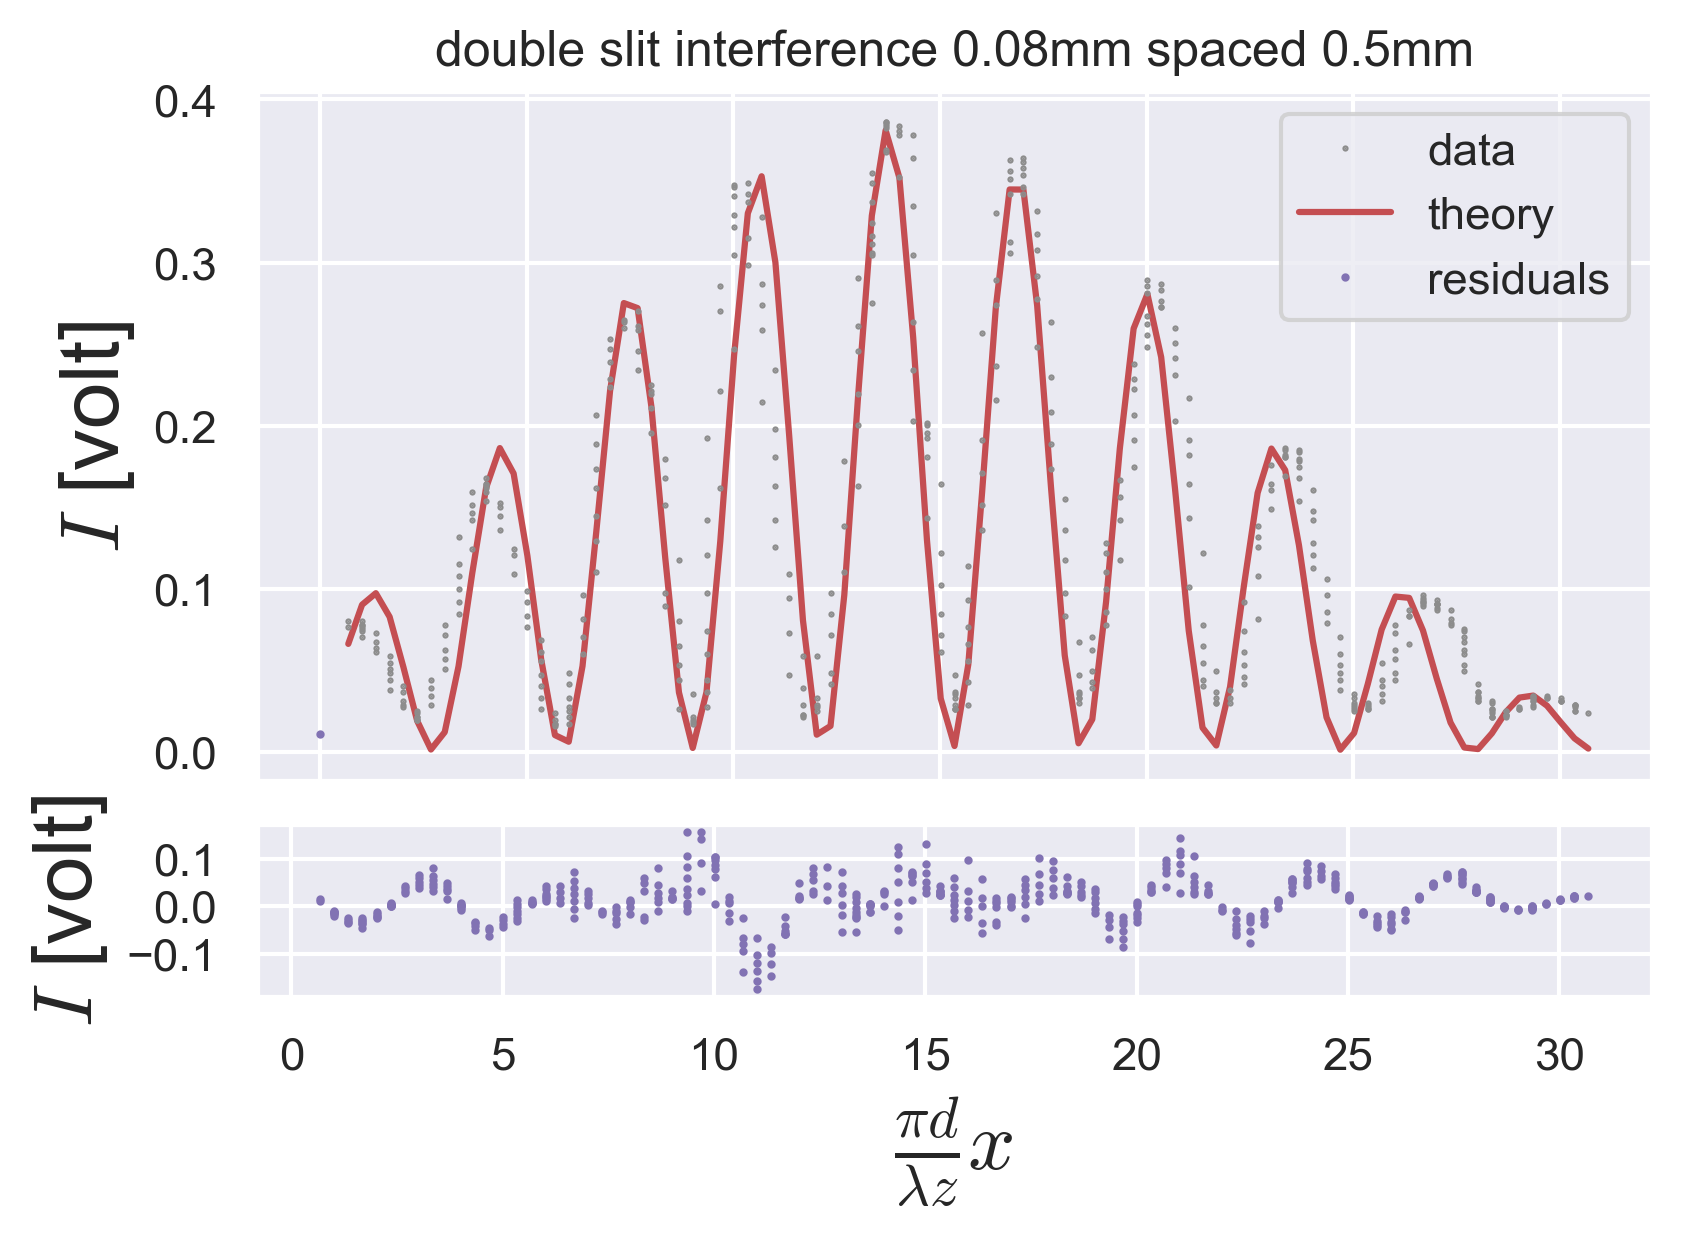
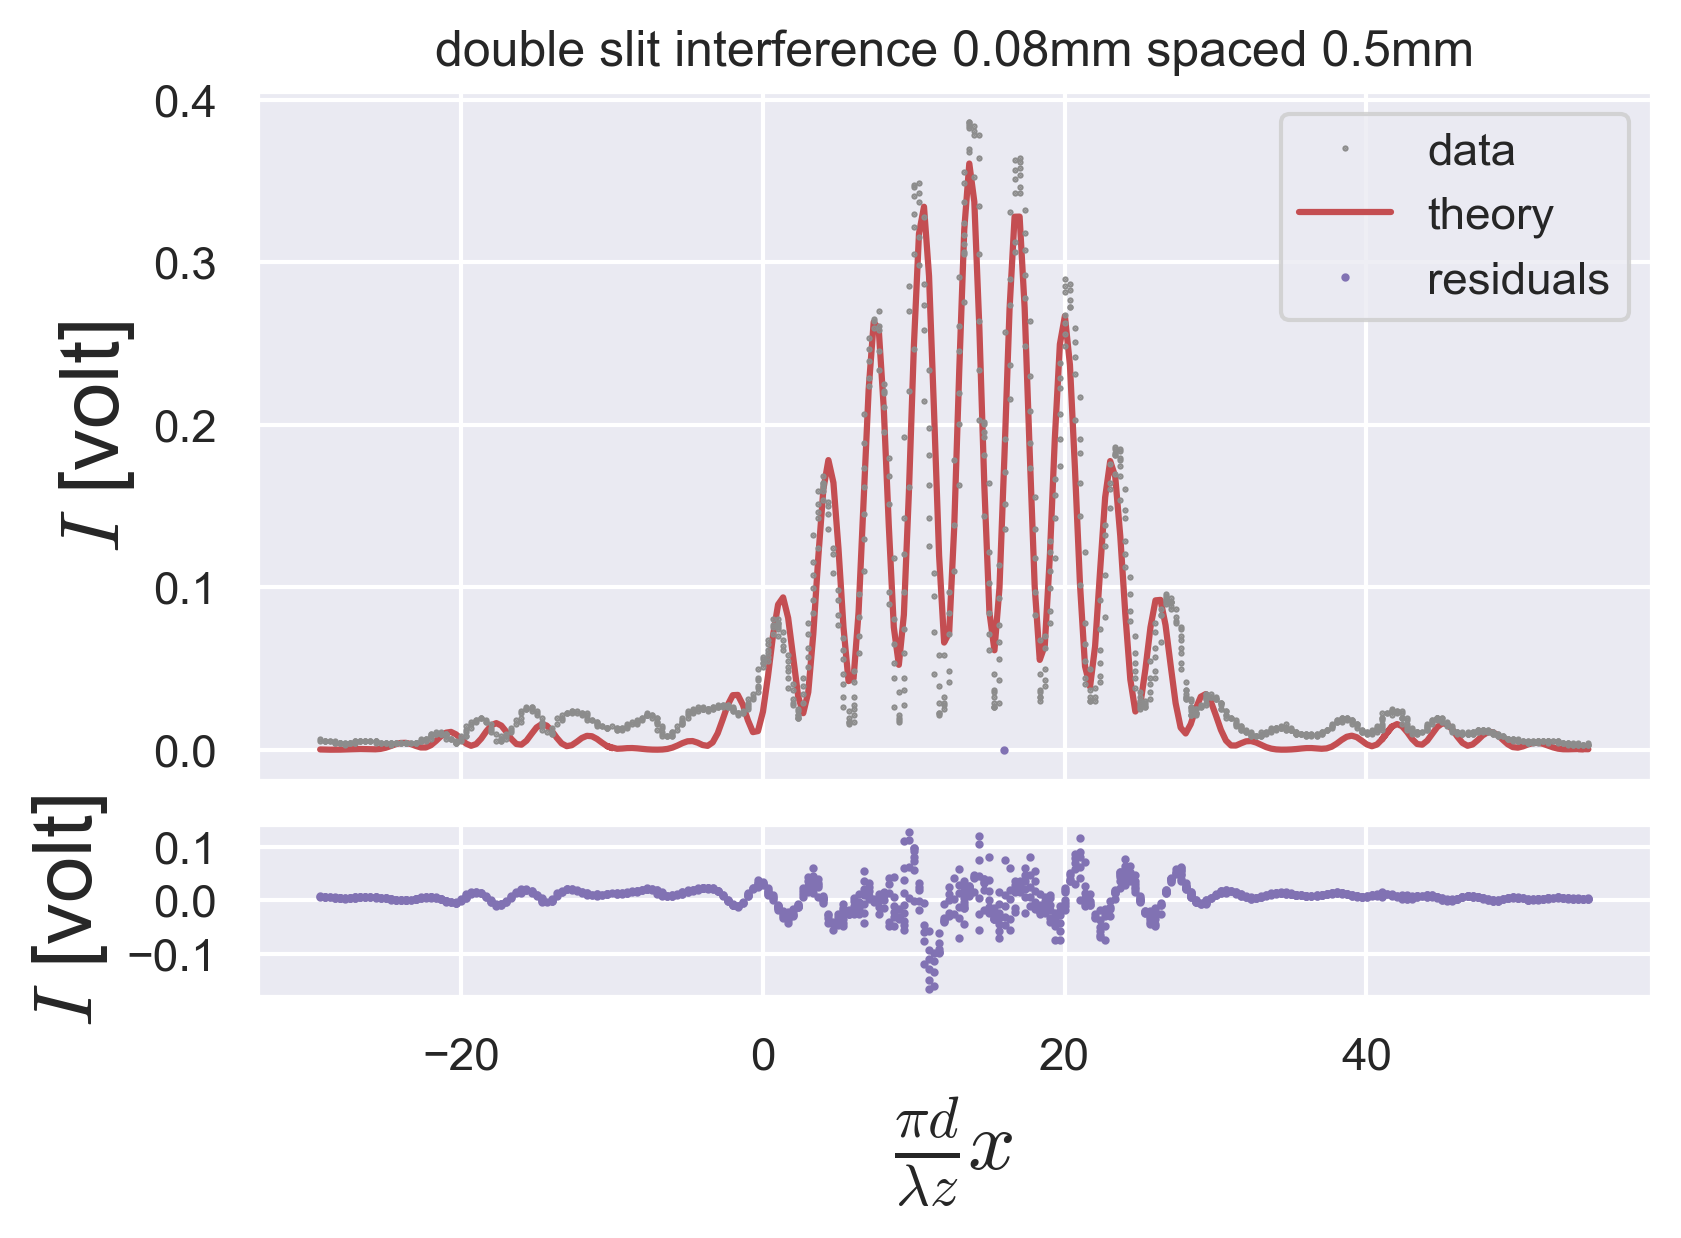
.

diff --git a/src/sections/results.tex b/src/sections/results.tex
@@ -1,18 +1,31 @@
 \section{Results}
-In the following section per convention $\lambda$ is the wavelength $d$ is the with of the slit and $z$ is the distance from the screen.\\
+In the following section per convention $\lambda$ is the wavelength $d$ is the width of the slit and $z$ is the distance from the screen.\\
 As can be seen in figure \ref{fig:single slit interference with 0.04mm width} the theory for a single slit fits the data well however there are
 secondary effects easily observable in the tails of the data that per our understanding are partially caused by the non-linearity of the
 photomultiplier and photoelectric sensor, such effects were not taken into account when formulating our theory
 However the adjustment can be easily accomplished.
 \input{figures/single slit interference with 0.04mm width.tex}
 \input{figures/other single slit figures.tex}
-\input{figures/0.04w0.25s.tex}
-\input{figures/0.08w0.25s.tex}
+\input{figures/0.04w0.025s memory.tex}
+Two more evidence that the difference between model and measurement can be explained be our measuring tools is shown in Figure {\ref{fig:0.04w0.25s memory}}.
+The first being the fact that although we expect the intensity to approximately equal zero at some point along the x-axis, the local minima seem to increase in value closer to $x=0$.
+This can be explained by the "iris effect" and the sensor's mechanism, that assign the sum of intensities at some neighborhood of a certain point to that point, specifically for the iris that neighborhood was estimated to be its' width.
+The second effect we see is an offset between theory and experiment that is, especially around the tails, one-sided.
+That tendency towards a certain side is duo to the fact that we scanned in a certain direction and the photoelectric sensor's measurement at a certain point is affected by measurements made a short time before that.
+When taking into account the iris effect we saw an improvement in the fit.
+According to the theory we used, the intensity for double slit patterns can be approximated as:\\
+$I(x)=\frac{kd^2\cos^2(\frac{kLx}{2z})sinc^2(\frac{dkx}{2z})}{z\pi}$\\
+As seen in Figure 6, when increasing the width of each slit we see that the $sinc$ function is narrower, and for greater spaces between slits we see the increase in the $cos$ function's frequency as expected.
+What's not predicted by our theory is the decrease in maximum amplitude which shouldn't change when altering the spacing,
+that can be explained by the fact we centered the maximum amplitude of the laser between slits for symmetry thus creating a decrease in amplitude of the incoming plane wave.
+\input{figures/other doubles.tex}
+\input{figures/10 slits per mm.tex}
+\newpage
 In the case of the periodic diffraction grating "10 lines per mm" the secondary effects are more pronounced especially
 the photoelectric sensor's "memory" (The photoelectric sensor has a relaxation period in which to voltage diminishes
 therefore after exposure instead of an immediate cut off a slope can be seen as the voltage is recorded with the relation
 to the angle which continues to change during said period giving us higher peaks and wider slopes near those peaks)\\
-\input{figures/10 slits per mm.tex}
+\\
 Finally To justify the title of the paper we should look at the interference pattern of the helix (Which bears some resemblance the shape off DNA)
 according to equation (\ref{eqn:farfield}) and the specified approximations the interference pattern can be calculated using
 the 2 dimensional fourier transform of the shape of the slit, Taking the inverse fourier transform of the pattern should result

diff --git a/src/sections/theoretical background.tex b/src/sections/theoretical background.tex
@@ -19,13 +19,14 @@ $\psi\rightarrow\hat{\psi}=\frac{1}{\sqrt{2\pi}^3}e^{-i\omega_0 t}\underbrace{\i
 b(\vec{k})e^{i\left( k_x x+k_y y+\sqrt{k_0^2 -k_x^2 -k_y^2} z \right)}dk_x dk_y}_{U(x,y,z)}$\\
 $\Rightarrow U(x,y,0)=U_o(x,y,0^-)T(x,y)=\frac{1}{\sqrt{2\pi}^3} \iint \limits_{-\infty}^{\quad \infty}b(k_x,k_y)e^{ik_x x+k_y y}=
 \frac{\mathcal{FT}_{2D}^{-1}\left[ b(k_x,k_y) \right]}{\sqrt{2\pi}}\Rightarrow b(k_x,k_y)=\sqrt{2\pi} \mathcal{FT}_{2D}\left[ U(x,y,0) \right]$
-summarizing we have $\psi(\vec{r},t)=\left( \frac{1}{2\pi} \right) \iint\limits_{-\infty}^{\quad \infty}\mathcal{FT}_{2D}\left[ T(x,y)U_o(x,y,0^-) \right]e^{i \left( \vec{k}\cdot\vec{r}-\omega_0 t \right)}dk_x dk_y$\\
+\\Summarizing, we have:\\
+$\psi(\vec{r},t)=\left( \frac{1}{2\pi} \right) \iint\limits_{-\infty}^{\quad \infty}\mathcal{FT}_{2D}\left[ T(x,y)U_o(x,y,0^-) \right]e^{i \left( \vec{k}\cdot\vec{r}-\omega_0 t \right)}dk_x dk_y$\\
 under the approximation where $|k_x|,|k_y| \ll \|\vec{k}\|$ we get:
 \begin{equation} \label{eqn:nearfield}
     U(x,y,z)=\frac{k_0}{2\pi iz}e^{ik_0 z}\iint\limits_{-\infty}^{\quad \infty}U(x',y',0)e^{i\frac{k_0}{2z}((x-x')^2+(y-y'^2))}dx' dy'
 \end{equation}
 known as the Fresnel integral.\\
-taking the approximation further and assuming also $\frac{k_0 D^2}{2z} \\ \pi$ where $D$ is a length such that T(x,y) is 0 outside a square of side length $D$
+taking the approximation further and assuming also $\frac{k_0 D^2}{2z} \ll \pi$ where $D$ is a length such that T(x,y) is 0 outside a square of side length $D$
 we get:
 \begin{equation}\label{eqn:farfield}
     U(x,y,z)=-\frac{ik}{z}e^{ik(z+\frac{x^2+y^2}{2z})}\mathcal{FT}_{2D}\left[ U(x',y',0) \right]_{k_x=\frac{kx}{z},k_y=\frac{ky}{z}}
@@ -39,3 +40,4 @@ as for the arms themselves notice the interference within them, the spacing betw
 let us mark $\Delta_1$ as the smaller of the two and $\Delta_2$ as the larger. now the diameter of the spring can be calculated as
 $d=\frac{\lambda z}{\Delta_1}$ and the pitch as $p=\frac{\lambda z}{\Delta_2}$.\\
 \input{figures/expansion theory illustration.tex}
+\\ \\

diff --git a/src/figures/other doubles.tex b/src/figures/other doubles.tex
@@ -1,0 +1,16 @@
+\begin{figure}[H]
+    \centering
+    \begin{subfigure}{0.5\columnwidth}
+        \centering
+        \includegraphics[width=\columnwidth]{figures/0.08w0.25s.png} % first figure itself
+        \caption{}
+        \label{fig:double slit interference 0.08w0.25s}
+    \end{subfigure}\hfill
+    \begin{subfigure}{0.5\columnwidth}
+        \centering
+        \includegraphics[width=\columnwidth]{figures/0.08w0.5s.png} % second figure itself
+        \caption{}
+        \label{fig:single slit interference 0.16mm}
+    \end{subfigure}
+    \caption{Diffraction patterns for different slit patterns, for wider slits we get a narrow envelope of main peaks and for greater spacing we see denser peaks.}
+\end{figure}

diff --git a/src/figures/0.04w0.025s memory.tex b/src/figures/0.04w0.025s memory.tex
@@ -1,0 +1,5 @@
+\begin{figure}[H]
+    \includegraphics[width=0.9\columnwidth]{figures/0.04w0.25s memory.png}
+    \caption{The secondary effects caused by measuring method are demonstrated here by the blue dashed line, we never see 0 intensity contrary to theory, and the visible offset in the fit relative to measurements. $(\sigma\sim0.01)$)}
+    \label{fig:0.04w0.25s memory}
+\end{figure}

diff --git a/src/main.tex b/src/main.tex
@@ -36,6 +36,7 @@
     \input{sections/theoretical background.tex}
     \input{sections/experimental techniques and apparatus.tex}
     \input{sections/results.tex}
+    \\
     \input{sections/discussion.tex}
 
 \end{document}
